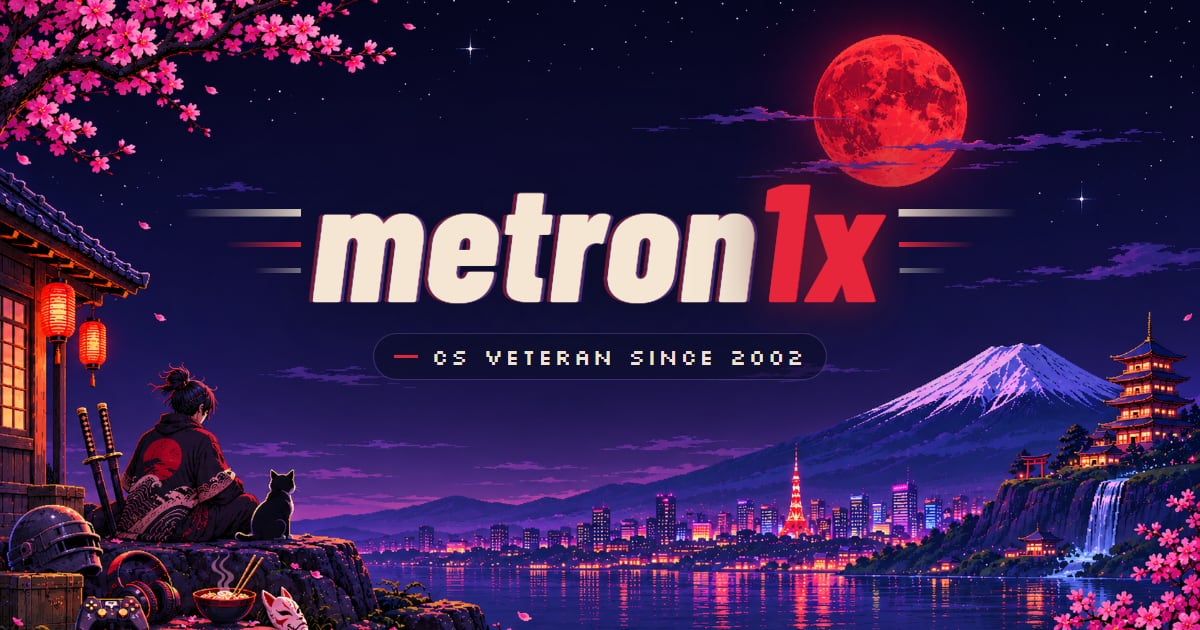
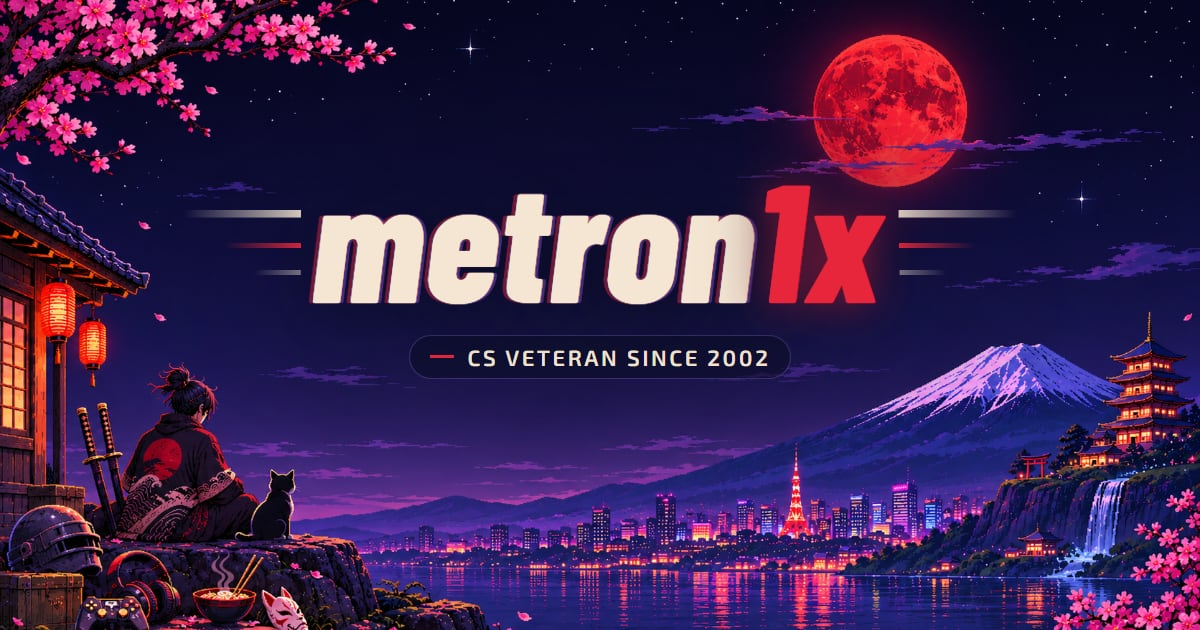
Replace pixel font with Exo 2; remove numbered section labels

diff --git a/src/styles/global.css b/src/styles/global.css
@@ -73,14 +73,16 @@ ul, ol { margin: 0; padding: 0; list-style: none; }
 .section--tint { background: linear-gradient(180deg, transparent, rgba(20, 20, 61, 0.55) 18%, rgba(20, 20, 61, 0.55) 82%, transparent); }
 
 /* ---------- Type helpers ---------- */
-.pixel {
-  font-family: var(--font-pixel);
-  font-weight: 400;
-  letter-spacing: 0.02em;
+/* small techno labels (Exo 2) — categories, tags, badges, the role line */
+.techno {
+  font-family: var(--font-value);
+  font-weight: 600;
+  letter-spacing: 0.04em;
 }
 .eyebrow {
-  font-family: var(--font-pixel);
-  font-size: 0.75rem;
+  font-family: var(--font-value);
+  font-weight: 600;
+  font-size: 0.8125rem;
   color: var(--lilac);
   text-transform: uppercase;
   letter-spacing: 0.08em;
@@ -141,7 +143,7 @@ ul, ol { margin: 0; padding: 0; list-style: none; }
   display: inline-flex; align-items: center; gap: 6px;
   padding: 4px 10px;
   border-radius: 999px;
-  font-family: var(--font-pixel); font-size: 0.75rem; line-height: 1.4;
+  font-family: var(--font-value); font-weight: 600; font-size: 0.8125rem; line-height: 1.4; letter-spacing: 0.04em;
   border: 1px solid currentColor;
 }
 

diff --git a/design/og-template.html b/design/og-template.html
@@ -1,6 +1,6 @@
 <!doctype html><html><head><meta charset="utf-8"><style>
 @font-face{font-family:B;src:url("../node_modules/@fontsource/barlow-condensed/files/barlow-condensed-latin-800-italic.woff2")}
-@font-face{font-family:S;src:url("../node_modules/@fontsource/silkscreen/files/silkscreen-latin-400-normal.woff2")}
+@font-face{font-family:S;src:url("../node_modules/@fontsource/exo-2/files/exo-2-latin-600-normal.woff2")}
 *{margin:0;box-sizing:border-box}
 body{width:1200px;height:630px;overflow:hidden;background:#0a0b22}
 .bg{position:absolute;inset:0;background:url("../src/assets/desktop_version.png") 50% 30%/cover}

diff --git a/src/styles/tokens.css b/src/styles/tokens.css
@@ -31,8 +31,7 @@
   /* Type */
   --font-display: "Barlow Condensed", "Arial Narrow", system-ui, sans-serif;
   --font-body: "Inter", system-ui, -apple-system, "Segoe UI", sans-serif;
-  --font-pixel: "Silkscreen", ui-monospace, "Cascadia Mono", monospace;
-  /* readable techno font for setting values */
+  /* readable techno font: setting values, labels, tags, badges */
   --font-value: "Exo 2", "Segoe UI", system-ui, sans-serif;
   --font-mono: ui-monospace, "Cascadia Mono", "SFMono-Regular", Menlo, Consolas, monospace;
 
